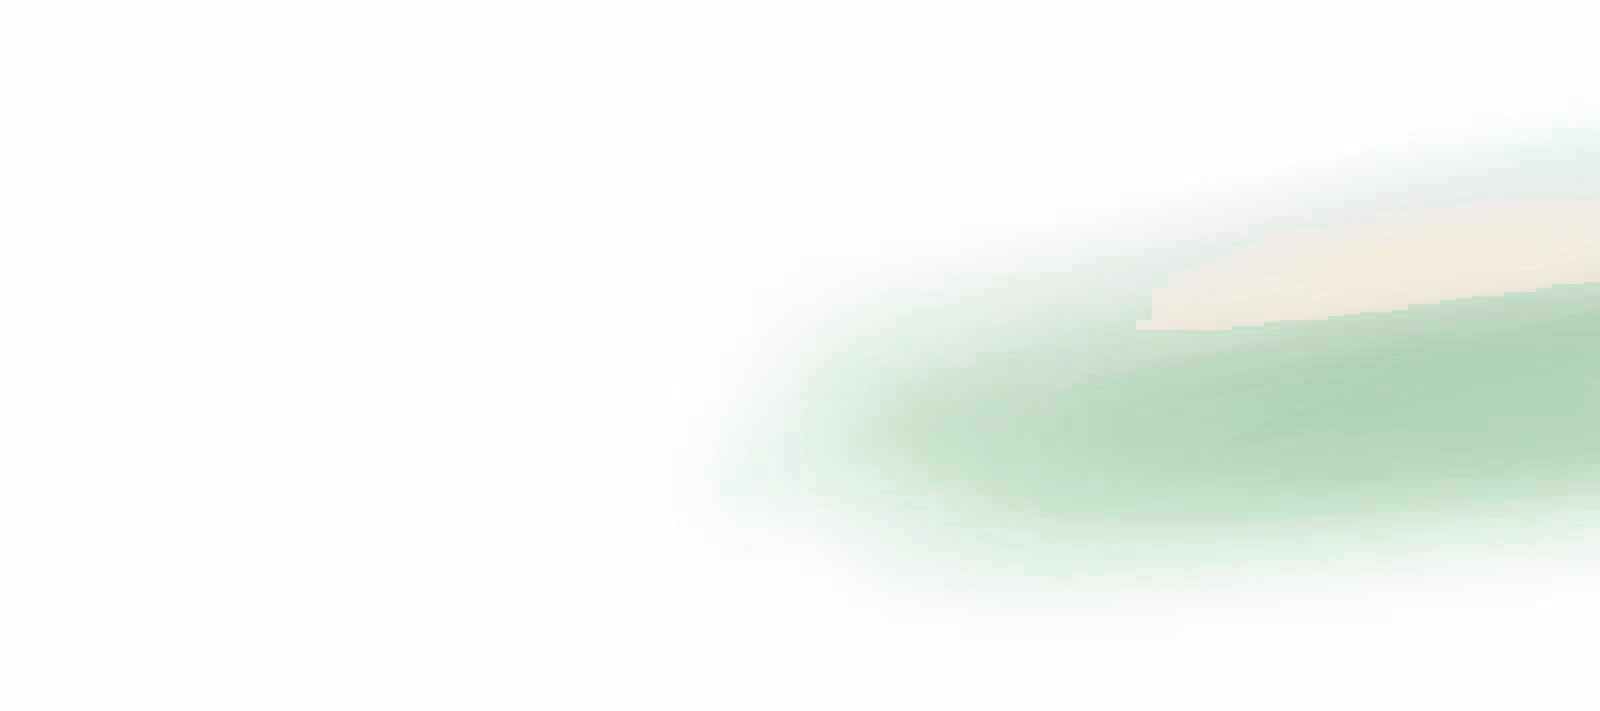
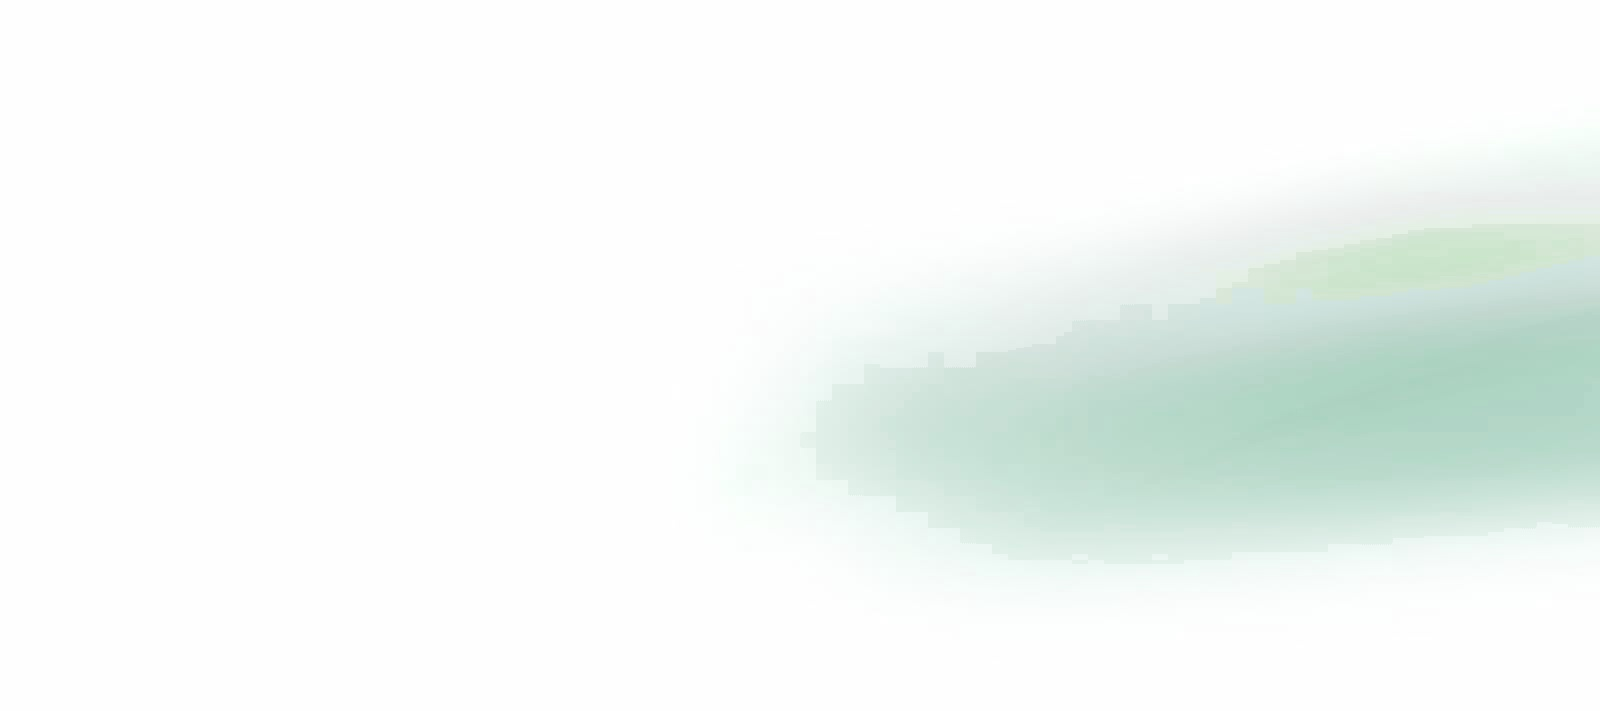
Remove amber gold accent for a clean all-green palette
The amber gold highlights in the gradient images banded badly under
JPEG compression (looked pixelated). Remove the accent entirely:
- regenerate all 16 background and 4 stock images from the original
  sources in a single pass, mapping every hue to green and saving at
  quality 95 so gradients stay smooth
- replace the gold stop in --gradient-accent-orange with the green
  accent in both themes (CTA button is now all green)

Claude-Session: https://claude.ai/code/session_01TH37UAvMTHk4Hd8cFW8Xx2

Changed region(s): [[0.7188, 0.3094, 1.0, 0.4641]]

diff --git a/src/styles/global.css b/src/styles/global.css
@@ -38,7 +38,7 @@
 	);
 	--gradient-accent-orange: linear-gradient(
 		150deg,
-		#e3b341,
+		var(--accent-light),
 		var(--accent-regular),
 		var(--accent-dark)
 	);
@@ -105,7 +105,7 @@
 	--gradient-subtle: linear-gradient(150deg, var(--gray-900) 19%, var(--gray-999) 81%);
 	--gradient-accent-orange: linear-gradient(
 		150deg,
-		#e3b341,
+		var(--accent-dark),
 		var(--accent-regular),
 		var(--accent-light)
 	);
